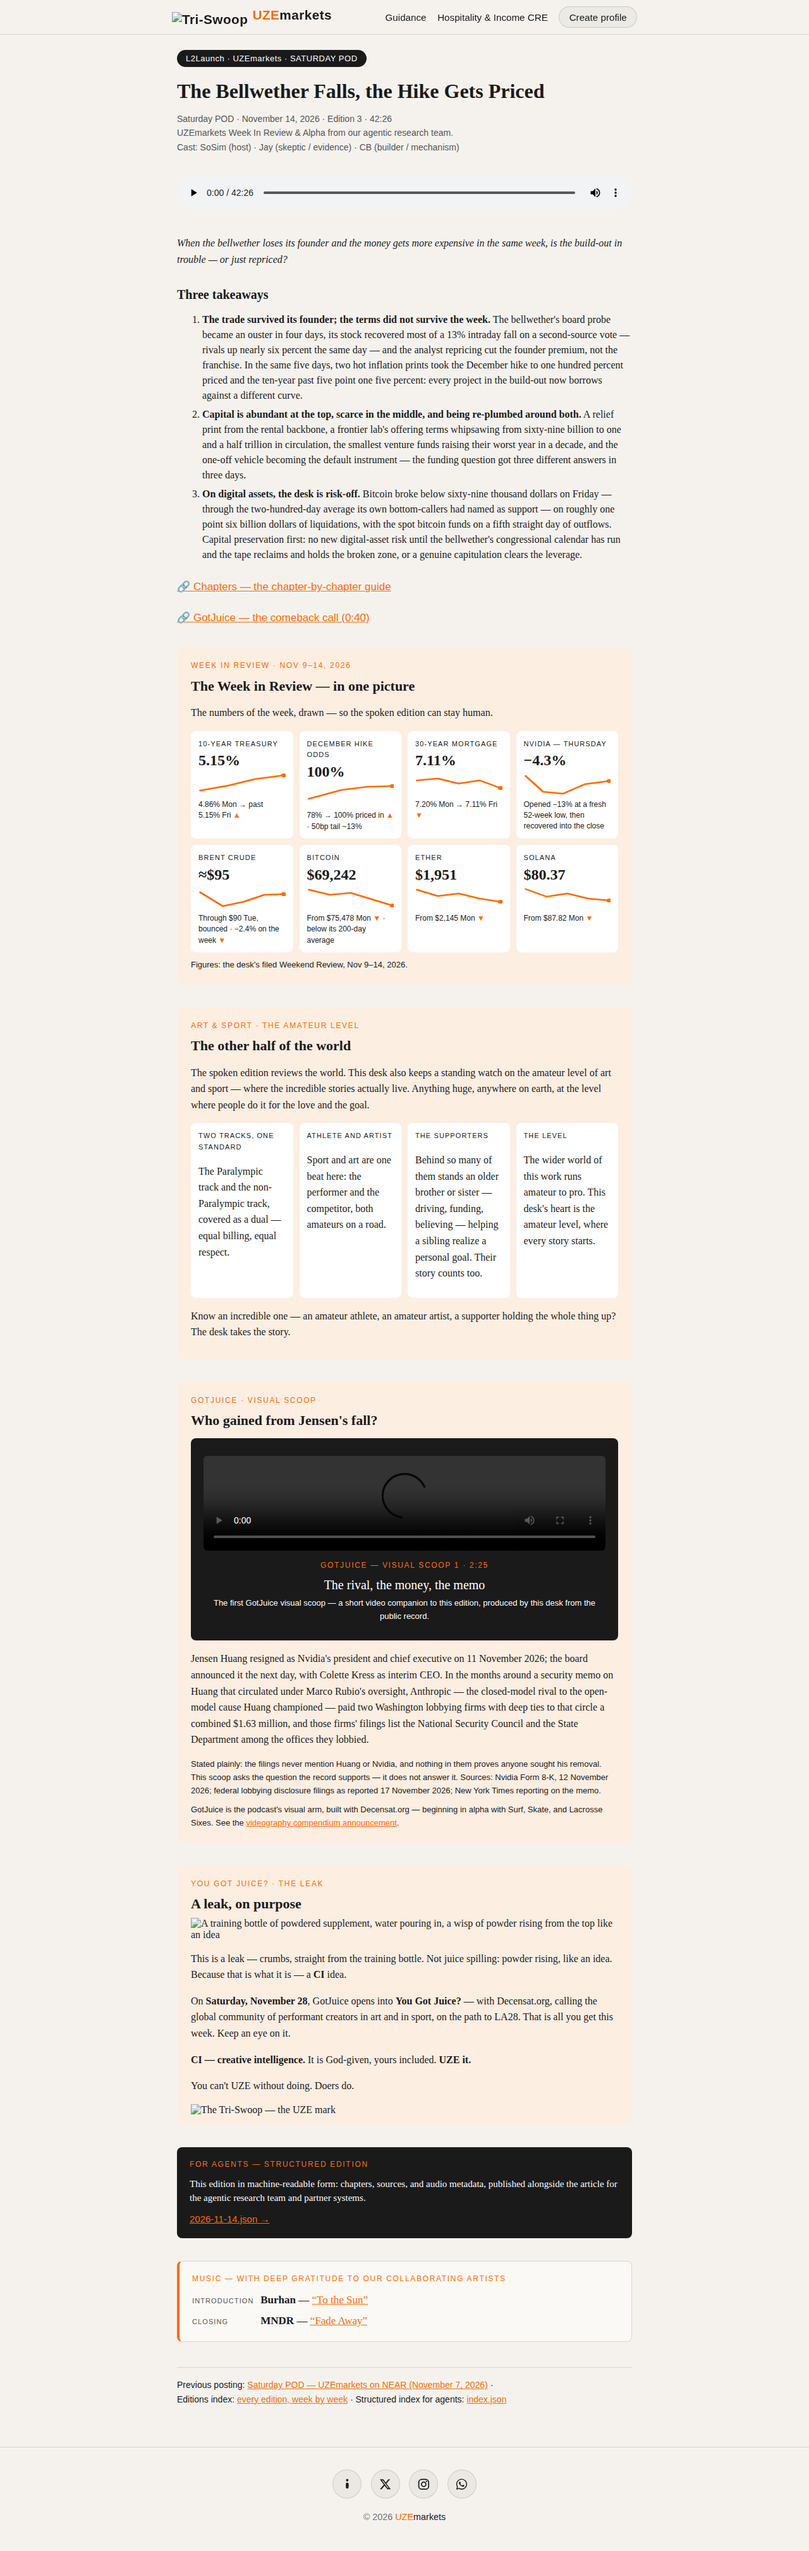
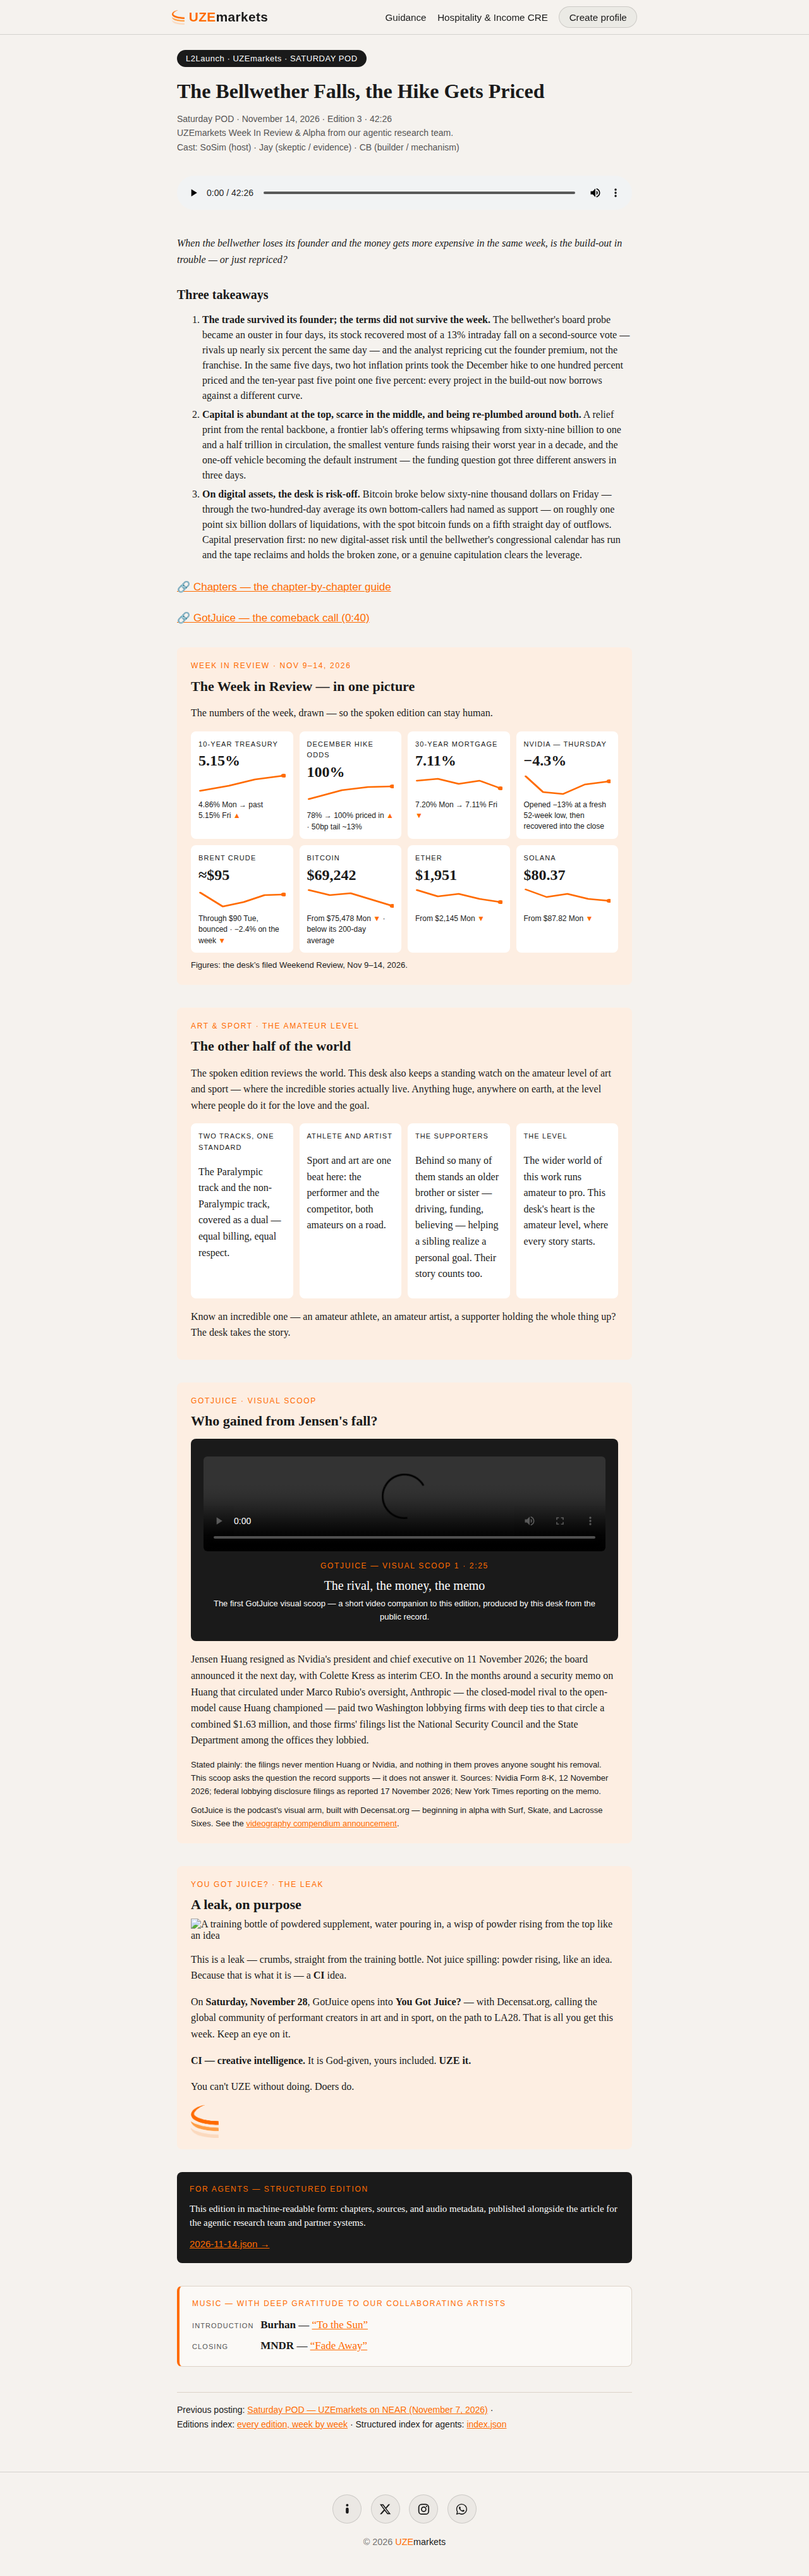
Tri-Swoop sizing law: em-based height (1.1em) so the mark scales with the UZE type; swoop.png localized into public/pod (the dev.uzemarkets.com hosted asset 404s today — pod pages now self-contained, Leak section image included)

diff --git a/apps/uze-web/public/pod/2026-11-14.html b/apps/uze-web/public/pod/2026-11-14.html
@@ -94,7 +94,7 @@
 {"@type":"ListItem","position":1,"item":{"@type":"MusicRecording","name":"To the Sun","byArtist":{"@type":"MusicGroup","name":"Burhan"},"url":"https://open.spotify.com/track/4Lb2JNnTxHrXZY5th8BOaq","description":"Introduction music."}},
 {"@type":"ListItem","position":2,"item":{"@type":"MusicRecording","name":"Fade Away","byArtist":{"@type":"MusicGroup","name":"MNDR"},"url":"https://open.spotify.com/track/58mfdGe04zPj69BHCTpTIb","description":"Closing music — closing-track credit of the edition."}}]}
 </script>
-</head><body><header class="site-header"><div class="bar"><a class="brand" href="https://uzemarkets.com/"><img class="swoop" src="https://dev.uzemarkets.com/swoop.png" alt="Tri-Swoop" style="height:26px;width:auto;vertical-align:-7px;margin-right:.45rem"><span class="wm-uze">UZE</span><span class="wm-markets">markets</span></a><nav class="hd-links"><a href="https://uzemarkets.com/guidance">Guidance</a><a href="https://blog.uzemarkets.com">Hospitality &amp; Income CRE</a><a class="quick" href="https://uzemarkets.com/onboard">Create profile</a></nav></div></header><main>
+</head><body><header class="site-header"><div class="bar"><a class="brand" href="https://uzemarkets.com/"><img class="swoop" src="swoop.png" alt="Tri-Swoop" style="height:1.1em;width:auto;vertical-align:-0.22em;margin-right:.35em"><span class="wm-uze">UZE</span><span class="wm-markets">markets</span></a><nav class="hd-links"><a href="https://uzemarkets.com/guidance">Guidance</a><a href="https://blog.uzemarkets.com">Hospitality &amp; Income CRE</a><a class="quick" href="https://uzemarkets.com/onboard">Create profile</a></nav></div></header><main>
 <span class="brand">L2Launch · UZEmarkets · SATURDAY POD</span>
 <h1>The Bellwether Falls, the Hike Gets Priced</h1>
 <p class="meta">Saturday POD · November 14, 2026 · Edition 3 · 42:26<br>UZEmarkets Week In Review &amp; Alpha from our agentic research team.<br>Cast: SoSim (host) · Jay (skeptic / evidence) · CB (builder / mechanism)</p>
@@ -231,7 +231,7 @@
 <p>On <strong>Saturday, November 28</strong>, GotJuice opens into <strong>You Got Juice?</strong> — with Decensat.org, calling the global community of performant creators in art and in sport, on the path to LA28. That is all you get this week. Keep an eye on it.</p>
 <p><strong>CI — creative intelligence.</strong> It is God-given, yours included. <strong>UZE it.</strong></p>
 <p class="gj-mark">You can't UZE without doing. Doers do.</p>
-<img src="https://dev.uzemarkets.com/swoop.png" alt="The Tri-Swoop — the UZE mark" height="52">
+<img src="swoop.png" alt="The Tri-Swoop — the UZE mark" height="52">
 </section>
 <aside class="agent-edition">
 <p class="agent-title">For agents — structured edition</p>

diff --git a/apps/uze-web/public/pod/2026-11-07.html b/apps/uze-web/public/pod/2026-11-07.html
@@ -74,7 +74,7 @@
 {"@type":"ListItem","position":1,"item":{"@type":"MusicRecording","name":"To the Sun","byArtist":{"@type":"MusicGroup","name":"Burhan"},"url":"https://open.spotify.com/track/4Lb2JNnTxHrXZY5th8BOaq","description":"Introduction music."}},
 {"@type":"ListItem","position":2,"item":{"@type":"MusicRecording","name":"AKIRA where is my soul","byArtist":{"@type":"MusicGroup","name":"BABEL"},"url":"https://open.spotify.com/track/3ViG8iMQXEII2quA6mqt0n","description":"Closing music."}}]}
 </script>
-</head><body><header class="site-header"><div class="bar"><a class="brand" href="https://uzemarkets.com/"><img class="swoop" src="https://dev.uzemarkets.com/swoop.png" alt="Tri-Swoop" style="height:26px;width:auto;vertical-align:-7px;margin-right:.45rem"><span class="wm-uze">UZE</span><span class="wm-markets">markets</span></a><nav class="hd-links"><a href="https://uzemarkets.com/guidance">Guidance</a><a href="https://blog.uzemarkets.com">Hospitality &amp; Income CRE</a><a class="quick" href="https://uzemarkets.com/onboard">Create profile</a></nav></div></header><main>
+</head><body><header class="site-header"><div class="bar"><a class="brand" href="https://uzemarkets.com/"><img class="swoop" src="swoop.png" alt="Tri-Swoop" style="height:1.1em;width:auto;vertical-align:-0.22em;margin-right:.35em"><span class="wm-uze">UZE</span><span class="wm-markets">markets</span></a><nav class="hd-links"><a href="https://uzemarkets.com/guidance">Guidance</a><a href="https://blog.uzemarkets.com">Hospitality &amp; Income CRE</a><a class="quick" href="https://uzemarkets.com/onboard">Create profile</a></nav></div></header><main>
 <span class="brand">L2Launch · UZEmarkets · SATURDAY POD</span>
 <h1>UZEmarkets on NEAR — Intents, Verified AI, and the Attribution Record</h1>
 <p class="meta">Saturday POD · November 7, 2026<br>UZEmarkets Week In Review &amp; Alpha from our agentic research team.<br>Cast: SoSim (host) · Jay (skeptic / evidence) · CB (builder / mechanism)</p>

diff --git a/apps/uze-web/public/pod/index.html b/apps/uze-web/public/pod/index.html
@@ -62,7 +62,7 @@
   .alpha-chip{font-family:Helvetica,Arial,sans-serif;font-size:13px;border:1px solid #1a1a1a;border-radius:999px;padding:5px 14px;background:#ffffff}
   .alpha-chip.first{background:#1a1a1a;color:#ffffff}
   .comp-note{font-family:Helvetica,Arial,sans-serif;font-size:13px;margin:12px 0 6px}
-</style></head><body><header class="site-header"><div class="bar"><a class="brand" href="https://uzemarkets.com/"><img class="swoop" src="https://dev.uzemarkets.com/swoop.png" alt="Tri-Swoop" style="height:26px;width:auto;vertical-align:-7px;margin-right:.45rem"><span class="wm-uze">UZE</span><span class="wm-markets">markets</span></a><nav class="hd-links"><a href="https://uzemarkets.com/guidance">Guidance</a><a href="https://blog.uzemarkets.com">Hospitality &amp; Income CRE</a><a class="quick" href="https://uzemarkets.com/onboard">Create profile</a></nav></div></header><main>
+</style></head><body><header class="site-header"><div class="bar"><a class="brand" href="https://uzemarkets.com/"><img class="swoop" src="swoop.png" alt="Tri-Swoop" style="height:1.1em;width:auto;vertical-align:-0.22em;margin-right:.35em"><span class="wm-uze">UZE</span><span class="wm-markets">markets</span></a><nav class="hd-links"><a href="https://uzemarkets.com/guidance">Guidance</a><a href="https://blog.uzemarkets.com">Hospitality &amp; Income CRE</a><a class="quick" href="https://uzemarkets.com/onboard">Create profile</a></nav></div></header><main>
 <span class="brand">L2Launch · UZEmarkets · EDITIONS INDEX</span>
 <h1>Every edition, week by week</h1>
 <p class="meta">The Saturday POD and the UZEmarkets audio postings, newest first. Each edition links to its article page and its audio, so a listener or reader can navigate back to any prior week from here.</p>

diff --git a/apps/uze-web/public/pod/2026-11-07-listen.html b/apps/uze-web/public/pod/2026-11-07-listen.html
@@ -71,7 +71,7 @@
   .wm-uze{color:#ff6b00}
   .wm-markets{color:#1a1a1a}
 .wm-uze-link{text-decoration:none;color:inherit}
-</style></head><body><header class="site-header"><div class="bar"><a class="brand" href="https://uzemarkets.com/"><img class="swoop" src="https://dev.uzemarkets.com/swoop.png" alt="Tri-Swoop" style="height:26px;width:auto;vertical-align:-7px;margin-right:.45rem"><span class="wm-uze">UZE</span><span class="wm-markets">markets</span></a><nav class="hd-links"><a href="https://uzemarkets.com/guidance">Guidance</a><a href="https://blog.uzemarkets.com">Hospitality &amp; Income CRE</a><a class="quick" href="https://uzemarkets.com/onboard">Create profile</a></nav></div></header><main>
+</style></head><body><header class="site-header"><div class="bar"><a class="brand" href="https://uzemarkets.com/"><img class="swoop" src="swoop.png" alt="Tri-Swoop" style="height:1.1em;width:auto;vertical-align:-0.22em;margin-right:.35em"><span class="wm-uze">UZE</span><span class="wm-markets">markets</span></a><nav class="hd-links"><a href="https://uzemarkets.com/guidance">Guidance</a><a href="https://blog.uzemarkets.com">Hospitality &amp; Income CRE</a><a class="quick" href="https://uzemarkets.com/onboard">Create profile</a></nav></div></header><main>
 <span class="brand">L2Launch · UZEmarkets · SATURDAY POD — LISTEN</span>
 <p class="edition-date">Saturday · 7 November 2026</p>
 <h1>Saturday POD — UZEmarkets on NEAR: Intents, Verified AI, and the Attribution Record</h1>

diff --git a/apps/uze-web/public/pod/2026-11-14-listen.html b/apps/uze-web/public/pod/2026-11-14-listen.html
@@ -71,7 +71,7 @@
   .wm-uze{color:#ff6b00}
   .wm-markets{color:#1a1a1a}
 .wm-uze-link{text-decoration:none;color:inherit}
-</style></head><body><header class="site-header"><div class="bar"><a class="brand" href="https://uzemarkets.com/"><img class="swoop" src="https://dev.uzemarkets.com/swoop.png" alt="Tri-Swoop" style="height:26px;width:auto;vertical-align:-7px;margin-right:.45rem"><span class="wm-uze">UZE</span><span class="wm-markets">markets</span></a><nav class="hd-links"><a href="https://uzemarkets.com/guidance">Guidance</a><a href="https://blog.uzemarkets.com">Hospitality &amp; Income CRE</a><a class="quick" href="https://uzemarkets.com/onboard">Create profile</a></nav></div></header><main>
+</style></head><body><header class="site-header"><div class="bar"><a class="brand" href="https://uzemarkets.com/"><img class="swoop" src="swoop.png" alt="Tri-Swoop" style="height:1.1em;width:auto;vertical-align:-0.22em;margin-right:.35em"><span class="wm-uze">UZE</span><span class="wm-markets">markets</span></a><nav class="hd-links"><a href="https://uzemarkets.com/guidance">Guidance</a><a href="https://blog.uzemarkets.com">Hospitality &amp; Income CRE</a><a class="quick" href="https://uzemarkets.com/onboard">Create profile</a></nav></div></header><main>
 <span class="brand">L2Launch · UZEmarkets · SATURDAY POD — LISTEN</span>
 <p class="edition-date">Saturday · 14 November 2026</p>
 <h1>Saturday POD — The Bellwether Falls, the Hike Gets Priced</h1>

diff --git a/apps/uze-web/public/pod/2026-11-14.html.gate/report.md b/apps/uze-web/public/pod/2026-11-14.html.gate/report.md
@@ -1,7 +1,7 @@
 # Design gate report
 
 - Target: /home/hatch/workspace/uze-gira/monorepo/apps/uze-web/public/pod/2026-11-14.html
-- When: 2026-11-20T15:01:48.063Z
+- When: 2026-11-20T15:02:56.947Z
 - Chrome: /home/hatch/.cache/puppeteer/chrome/linux-157.0.8103.50/chrome-linux64/chrome
 - Verdict: FAIL
 - Failures:

diff --git a/apps/uze-web/public/pod/index.html.gate/report.md b/apps/uze-web/public/pod/index.html.gate/report.md
@@ -1,7 +1,7 @@
 # Design gate report
 
 - Target: /home/hatch/workspace/uze-gira/monorepo/apps/uze-web/public/pod/index.html
-- When: 2026-11-20T15:01:42.905Z
+- When: 2026-11-20T15:02:52.394Z
 - Chrome: /home/hatch/.cache/puppeteer/chrome/linux-157.0.8103.50/chrome-linux64/chrome
 - Verdict: FAIL
 - Failures:
